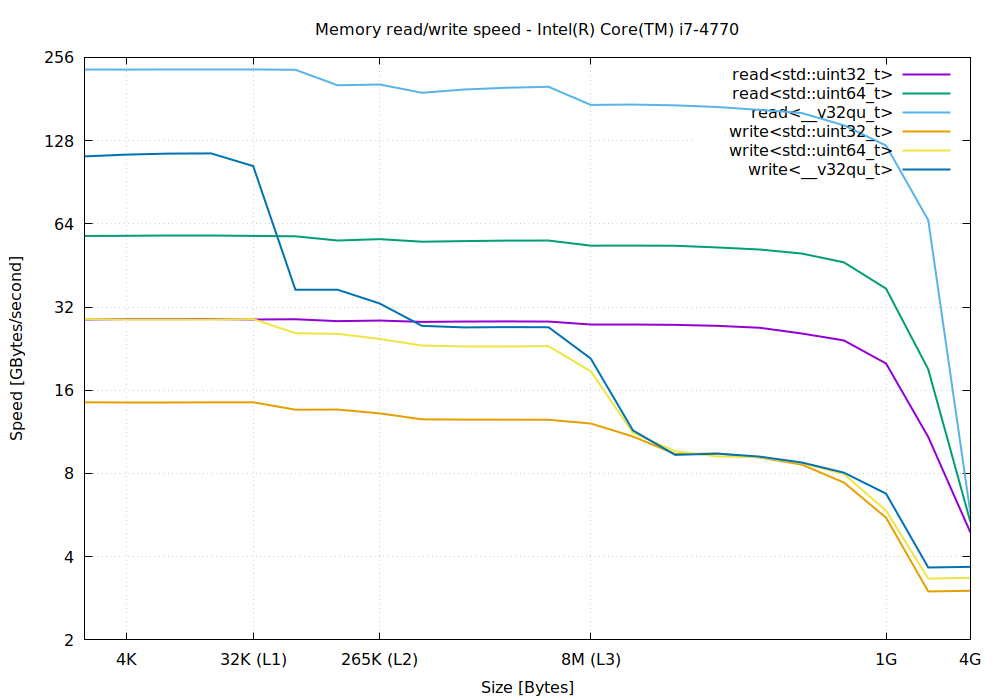
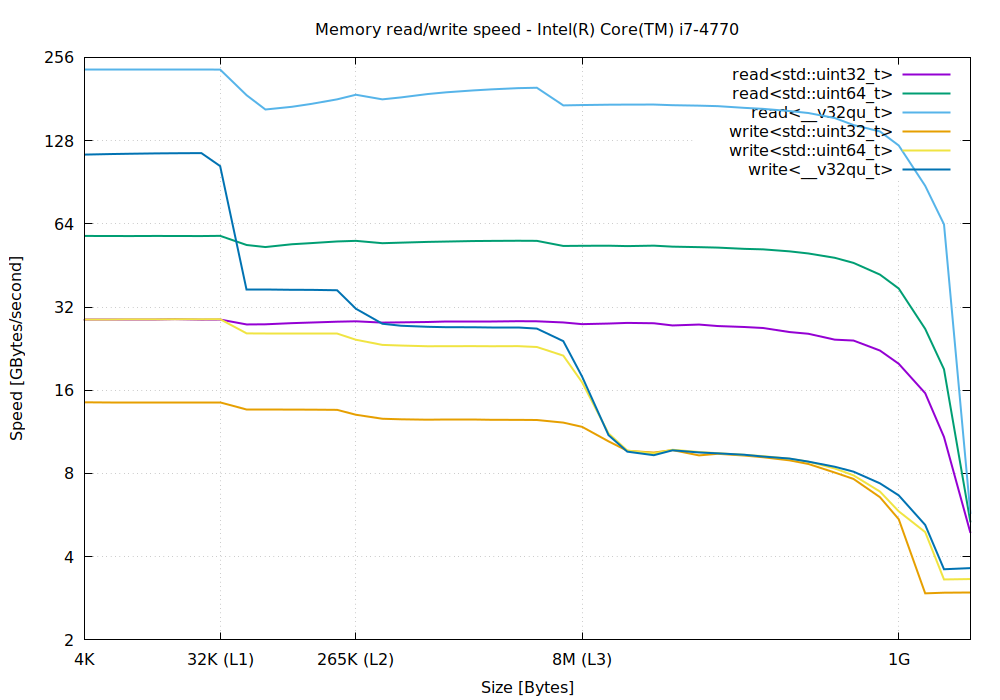
Update

diff --git a/src/matrix/rotate/rotate.cpp b/src/matrix/rotate/rotate.cpp
@@ -4,26 +4,38 @@
 
 #include <benchmark/benchmark.h>
 
+#include <cmath>
 #include <cstddef>
+#include <string>
 
-using T = int;
-constexpr auto no_false_sharing = 1u;
+using T = double;
 
-#define MY_BENCHMARK(func)                                                                                             \
-	void func(benchmark::State& state)                                                                                 \
-	{                                                                                                                  \
-		const std::size_t n = state.range(0) + no_false_sharing;                                                       \
-		Matrix<T> mat(n, n);                                                                                           \
-		for (auto _ : state)                                                                                           \
-		{                                                                                                              \
-			func(mat);                                                                                                 \
-			benchmark::DoNotOptimize(mat.data());                                                                      \
-		}                                                                                                              \
-		state.SetBytesProcessed(state.iterations() * mat.size() * sizeof(T));                                          \
-		state.SetComplexityN(n);                                                                                       \
-	}                                                                                                                  \
-                                                                                                                       \
-	BENCHMARK(func)->RangeMultiplier(2)->Range(1l << 3, 1l << 13)->Complexity(benchmark::oNSquared);
+static void custom_arguments(benchmark::internal::Benchmark* b)
+{
+	for (int i = 16; i <= 4096; i *= 2)
+		for (int j = i; j < 2 * i; j += std::max(4, i / 8))
+		{
+			b->Args({j - 1});
+			b->Args({j});
+			b->Args({j + 1});
+		}
+}
+
+#define MY_BENCHMARK(func)                                                                         \
+	void func(benchmark::State& state)                                                             \
+	{                                                                                              \
+		const std::size_t n = state.range(0);                                                      \
+		Matrix<T> mat(n, n);                                                                       \
+		for (auto _ : state)                                                                       \
+		{                                                                                          \
+			func(mat);                                                                             \
+			benchmark::DoNotOptimize(mat.data());                                                  \
+		}                                                                                          \
+		state.SetItemsProcessed(state.iterations() * mat.size());                                  \
+		state.SetLabel(std::to_string(mat.size() * sizeof(T)));                                    \
+	}                                                                                              \
+                                                                                                   \
+	BENCHMARK(func)->Apply(custom_arguments);
 
 MY_BENCHMARK(transpose)
 MY_BENCHMARK(flip_ud)

diff --git a/src/memory/read_write/read_write.cpp b/src/memory/read_write/read_write.cpp
@@ -17,25 +17,6 @@
 constexpr std::size_t n_reps = 0 REPEAT(+1);
 constexpr std::size_t alignment = 64;
 
-std::string size_string(std::size_t size)
-{
-	char size_buf[100];
-
-	if (size < 1'024UL)
-		std::snprintf(size_buf, sizeof(size_buf), "%zu B", size);
-	else
-	{
-		if (size < 1'048'576UL)
-			std::snprintf(size_buf, sizeof(size_buf), "%.2f KB", size / 1'024.);
-		else if (size < 1'073'741'824UL)
-			std::snprintf(size_buf, sizeof(size_buf), "%.2f MB", size / 1'048'576.);
-		else
-			std::snprintf(size_buf, sizeof(size_buf), "%.2f GB", size / 1'073'741'824.);
-	}
-
-	return size_buf;
-}
-
 template<typename T>
 void memory_read(T* const buff, std::size_t size)
 {
@@ -65,6 +46,13 @@ void memory_write(T* const buff, std::size_t size)
 	}
 }
 
+static void custom_arguments(benchmark::internal::Benchmark* b)
+{
+	for (int i = 64; i <= (1 << 25); i *= 2)
+		for (int j = i; j < 2 * i; j += i / 2)
+			b->Args({j});
+}
+
 #define MY_BENCHMARK(func)                                                                         \
 	template<typename T>                                                                           \
 	void func(benchmark::State& state)                                                             \
@@ -78,9 +66,9 @@ void memory_write(T* const buff, std::size_t size)
 		state.SetLabel(std::to_string(n * sizeof(T)));                                             \
 	}                                                                                              \
                                                                                                    \
-	BENCHMARK_TEMPLATE(func, std::uint32_t)->RangeMultiplier(2)->Range(1l << 6, 1l << 26);         \
-	BENCHMARK_TEMPLATE(func, std::uint64_t)->RangeMultiplier(2)->Range(1l << 6, 1l << 26);         \
-	BENCHMARK_TEMPLATE(func, __v32qu      )->RangeMultiplier(2)->Range(1l << 6, 1l << 26);
+	BENCHMARK_TEMPLATE(func, std::uint32_t)->Apply(custom_arguments);                              \
+	BENCHMARK_TEMPLATE(func, std::uint64_t)->Apply(custom_arguments);                              \
+	BENCHMARK_TEMPLATE(func, __v32qu)->Apply(custom_arguments);
 
 MY_BENCHMARK(memory_read)
 MY_BENCHMARK(memory_write)

diff --git a/src/matrix/rotate/README.md b/src/matrix/rotate/README.md
@@ -1,0 +1,3 @@
+# Matrix 90 deg rotation
+
+![Matrix 90 deg rotation](rotate.png)
